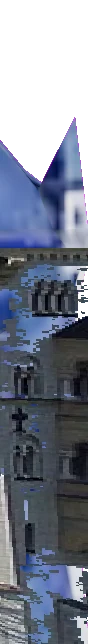
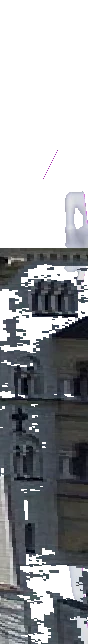
castle: đầu hết ngoáy khi nhảy, bỏ mảng xanh / ảnh nhoè đè mặt sân, đầu hồi có ảnh, mỏm đá theo độ dốc
- nguoi3d.js: xương được xoay thêm (đầu nhìn theo camera, thân khi leo) đặt về tư thế gốc mỗi khung trước mixer — động tác nhảy không có rãnh cổ / đầu nên phần xoay cộng dồn từng khung → đầu quay vòng (đo lại: 3 cú nhảy, hướng đầu lệch tối đa 2°)
- ns.js: mặt Palas hướng sân (dựng riêng theo ảnh chụp) không dán ảnh 3D nhoè đè lên; ảnh dán phủ cả tam giác đầu hồi (lấy từ hình khối); mỏm đá: dốc > 45° vân đá bazan, thoải là cỏ (thay vân đá xây)
- dan-mat.py: bỏ mảng xanh tím (trời / kính phản chiếu) trong ảnh 3D; kiểm sọc chỉ trên điểm có ảnh
- tai-mapillary.mjs (ảnh Mapillary có vị trí / hướng tính lại, CC BY-SA), khu-meo.py (khử méo ống kính), khop-camera.mjs (dò quanh hướng Mapillary, chấm điểm ảnh gần, bỏ cột không có trời)

diff --git a/apps/castle/public/ns.js b/apps/castle/public/ns.js
@@ -380,6 +380,7 @@ const matDat = datThat; // mặt đứng được = mặt đất thật (ảnh 3
     const tl = new THREE.TextureLoader(), dem2 = { mat: 0 };
     for (const t of TUONG_MT) for (let i = 0; i < t.v.length; i++) {
       const a = MAT_ANH[`${t.k?.id}#${i}`]; if (!a) continue;
+      if (MAT_PALAS && t === MAT_PALAS.t && i === MAT_PALAS.i) continue; // mặt dựng riêng theo ảnh chụp rõ (datMatPalas: tranh, ban công, cụm cửa) — ảnh 3D nhoè dán đè sẽ che mất (anh 16/11/2026)
       const [x1, z1] = t.v[i], [x2, z2] = t.v[(i + 1) % t.v.length], L = Math.hypot(x2 - x1, z2 - z1), ux = (x2 - x1) / L, uz = (z2 - z1) / L, nx = uz, nz = -ux;
       const y0 = Math.max(t.yMong, a.y0), y1 = Math.min(t.y1, a.yTren); if (y1 - y0 < 1) continue;
       let tx; try { tx = await tl.loadAsync(`./du-lieu/${a.tep}`); } catch (e) { console.warn('[ns] không tải được ảnh mặt', a.tep, e); continue; }
@@ -390,9 +391,18 @@ const matDat = datThat; // mặt đứng được = mặt đất thật (ảnh 3
         tx = new THREE.CanvasTexture(c);
       }
       tx.colorSpace = THREE.SRGBColorSpace; tx.anisotropy = 4;
-      tx.repeat.set(1, (y1 - y0) / (a.yTren - a.y0)); tx.offset.set(0, (y0 - a.y0) / (a.yTren - a.y0));
-      const m = new THREE.Mesh(new THREE.PlaneGeometry(L, y1 - y0), new THREE.MeshBasicMaterial({ map: tx, transparent: true, alphaTest: 0.5, toneMapped: false }));
-      m.position.set(x1 + ux * L / 2 + nx * 0.04, (y0 + y1) / 2, z1 + uz * L / 2 + nz * 0.04); m.rotation.y = Math.atan2(nx, nz);
+      // hình dán = chữ nhật tường (chân → mái hiên) + TAM GIÁC ĐẦU HỒI nằm trên cùng mặt phẳng (lấy từ hình khối đã dựng) — trước chỉ tới mái hiên,
+      // đầu hồi trơn (anh 16/11/2026); toạ độ ảnh: u = 1 − s / L (s dọc cạnh từ đầu), v theo độ cao trong khung ảnh
+      const P = [], UV = [], dat = (s, y) => { P.push(x1 + ux * s + nx * 0.04, y, z1 + uz * s + nz * 0.04); UV.push(1 - s / a.L, (y - a.y0) / (a.yTren - a.y0)); };
+      for (const [s, y] of [[0, y0], [L, y0], [L, y1], [0, y0], [L, y1], [0, y1]]) dat(s, y);
+      const da = t.k?.hinh?.[0] || [];
+      for (let j = 0; j + 8 < da.length; j += 9) {
+        const q = [0, 3, 6].map((o) => [da[j + o], da[j + o + 1], da[j + o + 2]]);
+        if (q.some(([x, y, z]) => Math.abs((x - x1) * nx + (z - z1) * nz) > 0.25 || y < t.y1 - 0.05) || Math.max(...q.map((p) => p[1])) < t.y1 + 0.5) continue;
+        for (const [x, y, z] of q) dat((x - x1) * ux + (z - z1) * uz, Math.min(y, a.yTren));
+      }
+      const gH = new THREE.BufferGeometry(); gH.setAttribute('position', new THREE.Float32BufferAttribute(P, 3)); gH.setAttribute('uv', new THREE.Float32BufferAttribute(UV, 2));
+      const m = new THREE.Mesh(gH, new THREE.MeshBasicMaterial({ map: tx, transparent: true, alphaTest: 0.5, toneMapped: false, side: THREE.DoubleSide }));
       m.visible = !LOP_OSM.dangAn; scene.add(m); LOP_OSM.push(m); dem2.mat++;
     }
     console.info('[ns] ảnh dán mặt tường:', dem2.mat, 'mặt');
@@ -429,15 +439,21 @@ const matDat = datThat; // mặt đứng được = mặt đất thật (ảnh 3
 }
 // LƯỚI ĐẤT MỊN quanh lâu đài (ô 1,5 m, chỗ mặt đất thật cao hơn lưới thô): mặt đá + va chạm — người đi trên mặt đất thật, không trên lưới thô bên dưới
 if (NEN_LUOI) {
-  const L = NEN_LUOI, p = [], uv = [];
+  // chia theo ĐỘ DỐC từng ô (anh 16/11/2026: mỏm đá thành vách lát gạch xám, nhìn giả): dốc > 45° = vách đá tự nhiên (vân bazan sáng, chiếu ngang),
+  // thoải = đất rừng có cỏ (như sườn có cây ngoài đời); va chạm vẫn là một lưới chung
+  const L = NEN_LUOI, p = [], uv = [], nhom = { da: { p: [], uv: [] }, co: { p: [], uv: [] } };
   for (let j = 0; j + 1 < L.H; j++) for (let i = 0; i + 1 < L.W; i++) {
     const o = [[i, j], [i + 1, j], [i + 1, j + 1], [i, j + 1]]; if (o.every(([a, b]) => L.nang[L.id(a, b)] < 0.15)) continue;
     const q = o.map(([a, b]) => [L.x0 + a * L.B, L.G[L.id(a, b)] + 0.02, L.z0 + b * L.B]);
-    for (const k of [0, 2, 1, 0, 3, 2]) { p.push(...q[k]); uv.push(q[k][0] / 4, q[k][2] / 4); }
+    const ys = q.map((v) => v[1]), doc = (Math.max(...ys) - Math.min(...ys)) / (L.B * Math.SQRT2), g = doc > 1 ? nhom.da : nhom.co, ngang = doc > 1;
+    for (const k of [0, 2, 1, 0, 3, 2]) { p.push(...q[k]); g.p.push(...q[k]); g.uv.push(ngang ? (q[k][0] + q[k][2]) / 6 : q[k][0] / 4, ngang ? q[k][1] / 6 : q[k][2] / 4); }
   }
   if (p.length) {
-    const g = new THREE.BufferGeometry(); g.setAttribute('position', new THREE.Float32BufferAttribute(p, 3)); g.setAttribute('uv', new THREE.Float32BufferAttribute(uv, 2)); g.computeVertexNormals();
-    const m = new THREE.Mesh(g, VL.mong); m.receiveShadow = true; scene.add(m); LOP_OSM.push(m);
+    const da = T.bazan(T.rngTu(71)), co = T.co(T.rngTu(72)); for (const t of [da.map, da.bump, co.map, co.bump]) if (t) t.wrapS = t.wrapT = THREE.RepeatWrapping;
+    const vlNhom = { da: new THREE.MeshStandardMaterial({ map: da.map, bumpMap: da.bump, bumpScale: 2, roughness: 0.95, color: '#c9c2b6' }), co: new THREE.MeshStandardMaterial({ map: co.map || null, roughness: 1, color: '#7f8f62' }) };
+    for (const [k, gg] of Object.entries(nhom)) { if (!gg.p.length) continue;
+      const g = new THREE.BufferGeometry(); g.setAttribute('position', new THREE.Float32BufferAttribute(gg.p, 3)); g.setAttribute('uv', new THREE.Float32BufferAttribute(gg.uv, 2)); g.computeVertexNormals();
+      const m = new THREE.Mesh(g, vlNhom[k]); m.receiveShadow = true; scene.add(m); LOP_OSM.push(m); }
     world.createCollider(RAPIER.ColliderDesc.trimesh(new Float32Array(p), Uint32Array.from({ length: p.length / 3 }, (_, i) => i)), tinh);
     console.info('[ns] mặt đất thật quanh lâu đài:', p.length / 18, 'ô · nâng tối đa', Math.max(...L.nang).toFixed(1), 'm');
   }

diff --git a/apps/castle/public/nguoi3d.js b/apps/castle/public/nguoi3d.js
@@ -97,6 +97,10 @@ export function taoNguoi3d(o = {}) {
     if (x.isBone) xuong[x.name] = x;
     if (x.isMesh) { x.castShadow = true; x.frustumCulled = false; if (x.isSkinnedMesh) toMauAo(x, AO[o.ao || 'hiepSi'] || AO.hiepSi); }
   });
+  // XƯƠNG ĐƯỢC XOAY THÊM sau mixer (đầu nhìn theo camera, thân vặn khi leo): lưu tư thế gốc, đặt lại mỗi khung trước mixer — động tác nào không có
+  // rãnh cho xương đó (vd nhảy) thì mixer không ghi đè, phần xoay thêm sẽ CỘNG DỒN từng khung → đầu ngoáy vòng tròn (anh 16/11/2026)
+  const XOAY_THEM = ['neck_01', 'Head', 'spine_01', 'spine_02', 'spine_03', 'pelvis', 'upperarm_l', 'upperarm_r', 'lowerarm_l', 'lowerarm_r', 'thigh_l', 'thigh_r', 'calf_l', 'calf_r'];
+  const goc0 = XOAY_THEM.filter((t) => xuong[t]).map((t) => [xuong[t], xuong[t].quaternion.clone()]);
   const mixer = new THREE.AnimationMixer(than), hd = {};
   for (const [ten, clip] of Object.entries(MAU.clips)) hd[ten] = mixer.clipAction(clip);
   for (const t of ['nem', 'da', 'len1m', 'len2m', 'vuot', 'nga', 'gat']) { hd[t].setLoop(THREE.LoopOnce, 1); hd[t].clampWhenFinished = true; }
@@ -141,6 +145,7 @@ export function taoNguoi3d(o = {}) {
         else if (v < 5.4) choi('chay', 0.2, Math.max(0.75, Math.min(1.4, v / TOC_GOC.chay)));
         else choi('nuocRut', 0.2, Math.max(0.8, Math.min(1.5, v / TOC_GOC.nuocRut)));
       }
+      for (const [x, q] of goc0) x.quaternion.copy(q); // về tư thế gốc, rồi mixer + xoay thêm (không cộng dồn)
       mixer.update(dt);
       if (!viec && st.tuThe === 'leo') tuTheLeo(goc, xuong, (st.phaLeo || 0) * 1.1);
       // ĐẦU QUAY THEO HƯỚNG NHÌN (anh 15/11/2026): st.nhin = { yaw: hướng camera so với thân, pitch: ngẩng (+ lên) }; cổ 40 %, đầu 60 %, giới hạn ±70° / ±35°,

diff --git a/apps/castle/scripts/khu-meo.py b/apps/castle/scripts/khu-meo.py
@@ -1,0 +1,34 @@
+#!/usr/bin/env python3
+"""KHỬ MÉO ỐNG KÍNH ảnh so (Mapillary: camera_type perspective, camera_parameters [f, k1, k2] — mô hình OpenSfM):
+ảnh góc rộng làm tường thẳng thành cong → phép chiếu kiểu lỗ kim (khop-camera.mjs, chieuanh.js) đặt lệch. Nắn về ảnh lỗ kim CÙNG tiêu cự f.
+
+  python3 apps/castle/scripts/khu-meo.py [--lau <tên>]
+
+Toạ độ chuẩn hoá theo cạnh dài: n = (u − W/2) / max(W, H). Lỗ kim: n = f · x (x = X/Z). Có méo: n_d = f · x · (1 + k1 r² + k2 r⁴), r² = x² + y².
+Ảnh ra: từng điểm (lỗ kim) → x = n / f → điểm nguồn n_d (lưới 48 × 27 ô + Image.MESH). Ghi anh/<tên>-thang.jpg, đổi `tep`, ghi `khuMeo` vào <lâu>-anh.json.
+"""
+import json, sys, pathlib
+from PIL import Image
+
+LAU = sys.argv[sys.argv.index('--lau') + 1] if '--lau' in sys.argv else 'neuschwanstein'
+GOC = pathlib.Path(__file__).resolve().parent.parent / 'public/du-lieu'
+tep = GOC / f'{LAU}-anh.json'; ds = json.loads(tep.read_text())
+for a in ds:
+    ok = a.get('ongKinh') or {}
+    if a.get('khongDung') or a.get('khuMeo') or ok.get('kieu') != 'perspective': continue
+    f, k1, k2 = (ok.get('thamSo') or [0, 0, 0]) + [0, 0][: max(0, 3 - len(ok.get('thamSo') or []))]
+    if not f or (abs(k1) < 1e-6 and abs(k2) < 1e-6): a['khuMeo'] = 'không méo'; continue
+    im = Image.open(GOC / a['tep']).convert('RGB'); W, H = im.size; S = max(W, H)
+    def nguon(u, v):
+        x, y = (u - W / 2) / S / f, (v - H / 2) / S / f; r2 = x * x + y * y; c = 1 + k1 * r2 + k2 * r2 * r2
+        return (x * c * f * S + W / 2, y * c * f * S + H / 2)
+    NX, NY = 48, 27; mesh = []
+    for j in range(NY):
+        for i in range(NX):
+            u0, u1, v0, v1 = W * i / NX, W * (i + 1) / NX, H * j / NY, H * (j + 1) / NY
+            mesh.append(((int(u0), int(v0), int(u1), int(v1)), (*nguon(u0, v0), *nguon(u0, v1), *nguon(u1, v1), *nguon(u1, v0))))
+    ra = im.transform((W, H), Image.MESH, mesh, Image.BILINEAR)
+    moi = a['tep'].replace('.jpg', '-thang.jpg'); ra.save(GOC / moi, quality=88)
+    a['tepGoc'] = a['tep']; a['tep'] = moi; a['khuMeo'] = f'OpenSfM perspective f={f:.3f} k1={k1:.3f} k2={k2:.3f}'
+    print('nắn', moi)
+tep.write_text(json.dumps(ds, ensure_ascii=False, indent=1) + '\n')

diff --git a/apps/castle/scripts/dan-mat.py b/apps/castle/scripts/dan-mat.py
@@ -26,6 +26,7 @@ for m in json.loads((thu / 'mat-g.json').read_text()):
         for x in range(W):
             r, g, b, a = px[x, y]
             if r > 200 and b > 200 and g < 70: px[x, y] = (0, 0, 0, 0)  # trời (nền hồng tím của bước chụp)
+            elif b > r + 25 and b > g + 8: px[x, y] = (0, 0, 0, 0)  # ảnh 3D Google: mảng xanh tím (trời / kính phản chiếu dính vào mặt tường) → bỏ, để ảnh chụp chiếu hoặc tường đá lộ ra (anh 16/11/2026: 'nham nhở')
     c = chup.get(f"{m['khoi']}#{m['canh']}")
     if c:
         pc = Image.open(c['tep']).convert('RGBA'); qx = pc.load(); P = c['px']
@@ -38,7 +39,9 @@ for m in json.loads((thu / 'mat-g.json').read_text()):
                 if a == 255 and not (r == g == b == 128) and not troi and not cay: px[x, gy] = (r, g, b, 255)
     # ẢNH HỎNG: mặt ảnh 3D không có ảnh thật (màu bị kéo dãn thành sọc ngang) → độ chênh theo chiều dọc gấp > 1,5 lần chiều ngang → không dán
     if True:  # kể cả sau khi ghép ảnh chụp (mặt nhìn quá xiên từ chỗ chụp cũng kéo thành sọc)
-        L_ = im.convert('L'); q = L_.load(); dx = sum(abs(q[x, y] - q[x + 1, y]) for y in range(0, H, 2) for x in range(W - 1)) / max(1, (W - 1) * (H // 2)); dy = sum(abs(q[x, y] - q[x, y + 1]) for y in range(H - 1) for x in range(0, W, 2)) / max(1, (H - 1) * (W // 2))
+        L_ = im.convert('L'); q = L_.load(); A = im.getchannel('A').load()  # chỉ cặp điểm đều có ảnh (lỗ trong suốt tạo mép giả)
+        cx = [abs(q[x, y] - q[x + 1, y]) for y in range(0, H, 2) for x in range(W - 1) if A[x, y] and A[x + 1, y]]; cy = [abs(q[x, y] - q[x, y + 1]) for y in range(H - 1) for x in range(0, W, 2) if A[x, y] and A[x, y + 1]]
+        dx = sum(cx) / max(1, len(cx)); dy = sum(cy) / max(1, len(cy))
         if dy > 1.5 * max(dx, 0.1): print(f"bỏ {m['khoi']}#{m['canh']}: ảnh sọc (dọc/ngang {dy / max(dx, 0.1):.1f})"); continue
     ten = f"{m['khoi'].split('/')[-1]}-{m['canh']}.webp"
     im.save(ra / ten, 'WEBP', quality=88, method=6)
